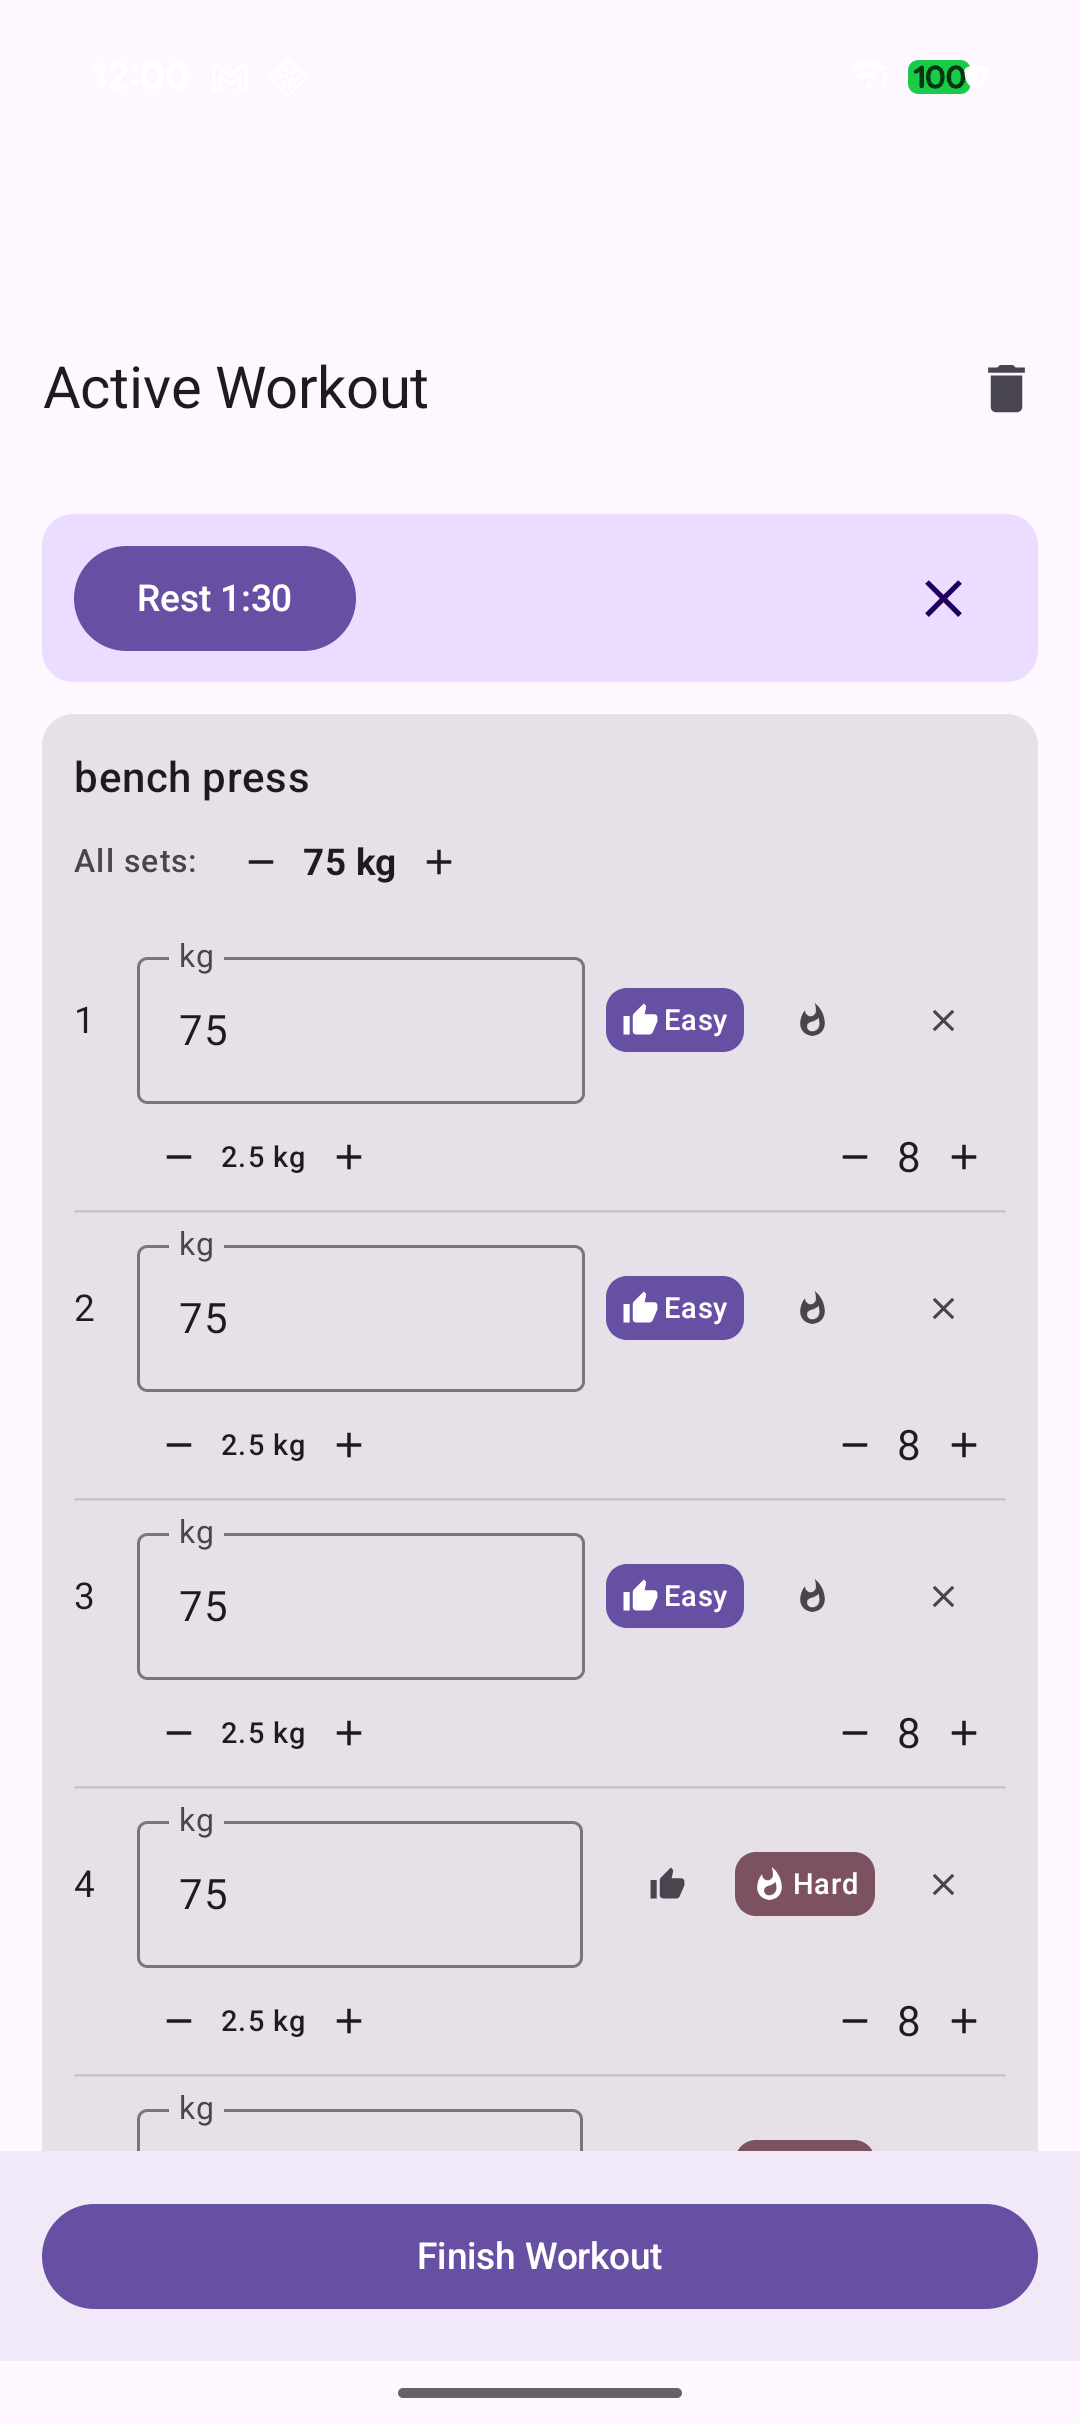
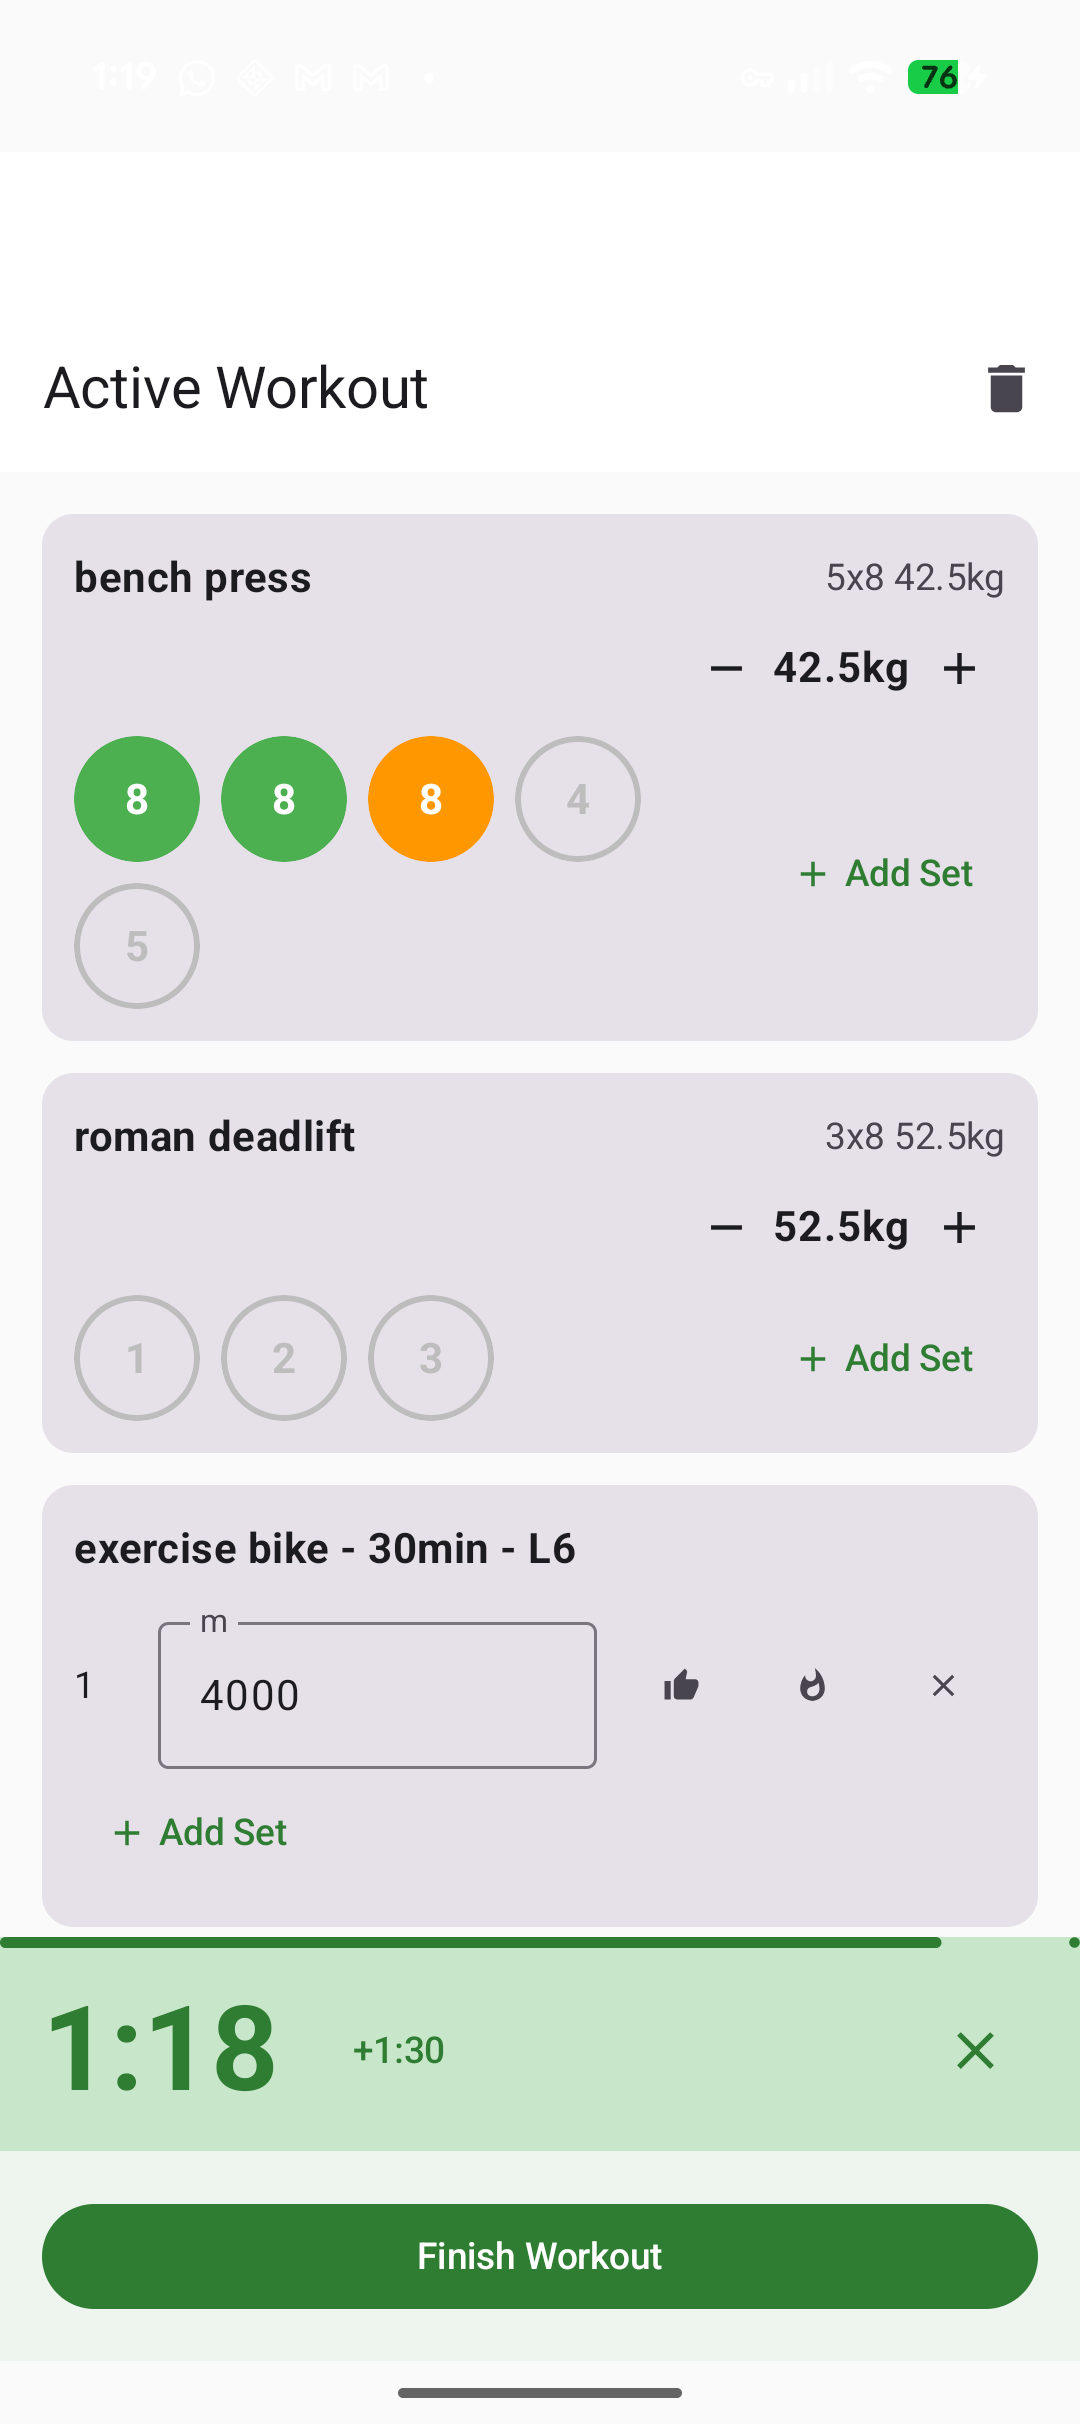
Update README, screenshots, and fastlane metadata for redesigned workout UI
Replace all 4 screenshots with new captures showing compact exercise cards,
set circles, rest timer bottom bar, and green GymLog theme. Update README
Active Workout Tracking section and Getting Started step 4 to reflect the
new tap-circle-then-modal workflow. Update fastlane description and add
v1.2 changelog.

diff --git a/README.md b/README.md
@@ -33,12 +33,13 @@ Templates save time so you can start a session with one tap instead of rebuildin
 
 ### Active Workout Tracking
 Log your workout in real time as you train:
-- **Quick weight adjustments** - +/- 2.5 kg buttons per set, plus "All sets" control to adjust every set at once
-- **Rep tracking** - increment and decrement buttons for fast rep logging
-- **Set status** - mark each set as Easy, Hard, or Failed
+- **Compact exercise cards** - each exercise shown as a card with set summary and weight control
+- **Set circles** - tap a set circle to open the completion modal, colored by status (green for easy, orange for hard, grey for incomplete)
+- **Set completion modal** - Easy/Hard/Incomplete buttons, with a rep counter for incomplete sets
+- **Quick weight adjustments** - +/- 2.5 kg buttons adjust all sets at once
+- **Rest timer** - bottom bar with countdown, +1:30 extend button, and persistent notification
 - **Add sets** - add extra sets on the fly if you want more than planned
-- **Rest timer** - built-in 1:30 countdown timer with haptic feedback
-- **Cardio logging** - fixed distance (track time in MM:SS) or fixed time (track distance in meters)
+- **Cardio logging** - fixed distance (track time) or fixed time (track distance)
 
 ### Auto-Adjust Weight Suggestions
 When you start a new session, GymLog suggests weights based on how your last session went:
@@ -71,7 +72,7 @@ Go to the **Templates** tab and tap the + button. Name your template (e.g., "Pus
 From the **Calendar** tab, tap the + button to start a new workout. Pick a template, and GymLog loads your exercises with targets pre-filled. If you've done the exercise before, it auto-fills your last weight.
 
 ### 4. Log your sets
-As you train, update the weight and reps for each set. Tap Easy, Hard, or Fail to mark each set. Use the rest timer between sets.
+As you train, tap a set circle to open the completion modal. Choose Easy, Hard, or Incomplete for each set. Adjust weight with the +/- buttons on each card, and use the rest timer between sets.
 
 ### 5. Finish and review
 Tap "Finish Workout" when you're done. Your session is saved and visible on the calendar. Check the progress chart for any exercise to see how you're improving over time.
